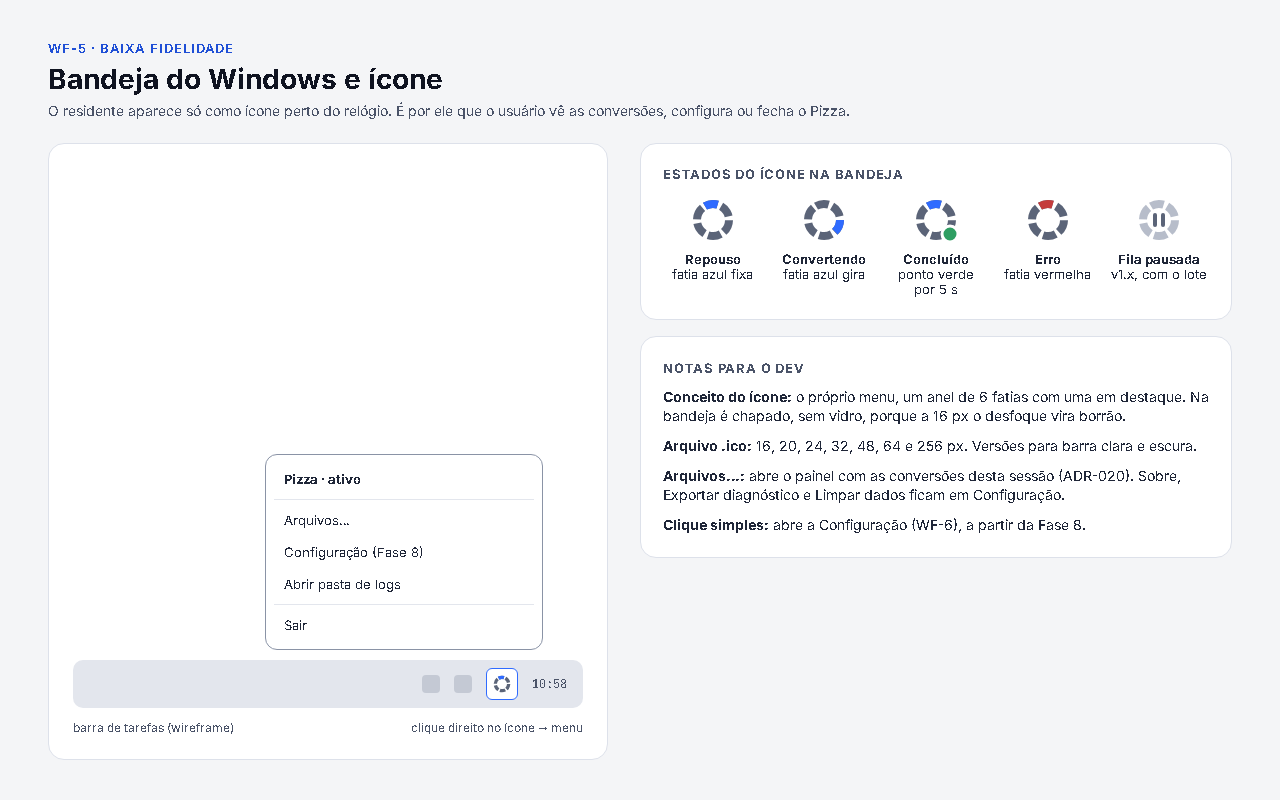
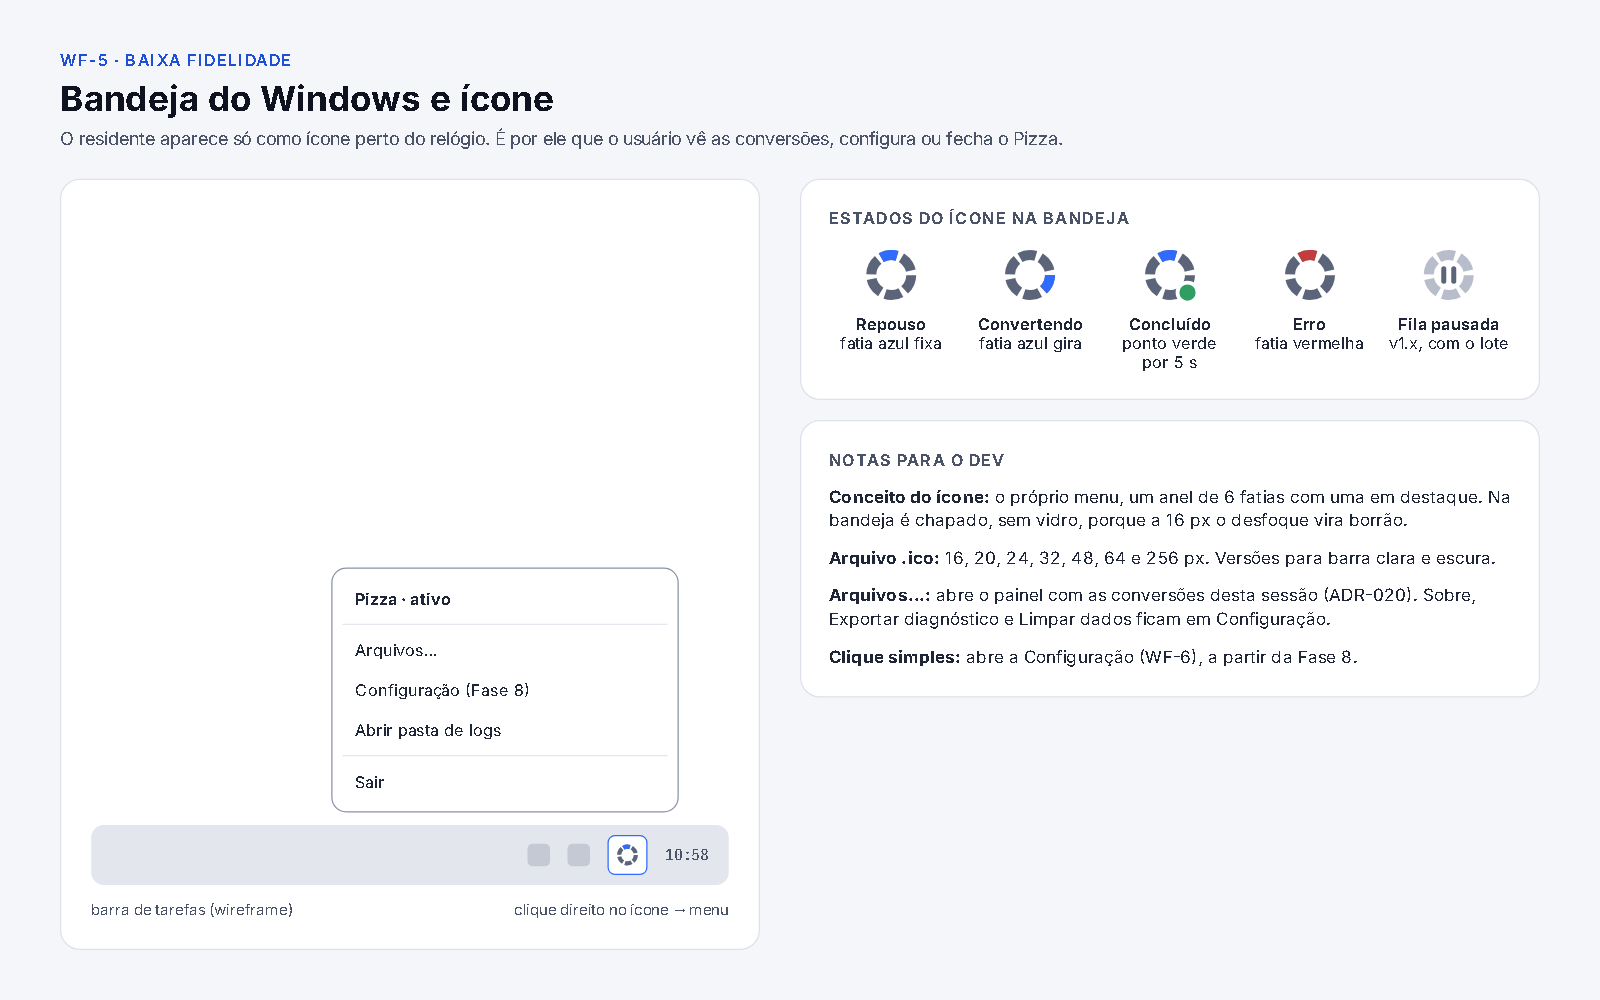
docs: Dossiê alinhado, decisões recentes e ADR-026 (vídeo) (#41)
* docs: Dossiê alinhado, decisões recentes e ADR-026 (vídeo)

- Pranchas atualizadas: capa (status da Fase 4), DES-1 (giro de aba
  240 ms), WF-1 (6 abas futuras, botão direito e 10 s), WF-2 (texto
  curvo), ENG-0 (etapas da Fase 4) e ENG-3 (testes e Overlay em
  partes); prancha nova DEC-1 com decisões e próximos passos.
- ADR-026: aba Vídeo separada de Áudio, com Media Foundation e FFmpeg
  (este após análise de licença e patentes); C# continua.
- SPECS §2.1: detalhes da faixa de níveis e da bolha de vidro (4b) e a
  barra para seis abas (4d); roteiro com o vídeo.

* docs: ADR-026 único, com o estudo da barra compacta do #40

Traz do PR #40 (preparado com o Codex) o estudo em SVG da barra compacta, a regra de motor definida antes do código e o cuidado com direitos de distribuição. O texto das fatias segue a curva completa (B) aprovada.

* docs: ADR-026 sem afirmar que o Media Foundation dispensa análise de licença

* docs(dossie): etapa 1, padrão único e barra de abas

Padrão decidido pelo mantenedor: documentação em tema claro, 1600 x
1000, fundo #f4f6fa; telas do Pizza em claro e escuro lado a lado.
- Wireframes ampliados 1,25x; pranchas mais altas reduzidas na
  proporção para caber em 1000 px; MKT-2 centralizada.
- Ref-Texto-Fatias refeita com a versão B nos dois temas.
- Prancha nova Ref-Barra-Abas: A (texto curto, 38 px) e B (ícone e
  nome, 44 px), nos dois temas, com o conflito com os 44 px de
  acessibilidade.
[…]

diff --git a/docs/SPECS.md b/docs/SPECS.md
@@ -102,7 +102,7 @@ Decisões das rodadas de alinhamento de 08/11/2026. **Onde houver conflito, esta
 | FR-23 | "Manter metadados" funciona em JPG, PNG e WEBP. Em PDF e ICO, a caixa aparece desativada, com o aviso de que o formato não guarda metadados | — |
 | Imagem → PDF | Gerador próprio, sem PDFsharp (AGPL desde a 6.5.0). Folha A4 acompanhando a orientação da imagem, margem de 10 mm. A biblioteca das demais operações de PDF será decidida na Fase 6 | 022 |
 | Aba Imagem e FR-04 | AVIF entra depois do WEBP. Com mais de 6 formatos, as fatias se dividem em voltas; a roda percorre as voltas da aba antes da próxima aba, e pontos no miolo mostram a volta. Aba sem conversão mostra "Em breve" com o que vem nela | 024 |
-| Áudio/Vídeo (v1.x) | MP3, WAV, FLAC, M4A/AAC e OGG/Opus; MP4, WebM e AV1; GIF para vídeo; extrair áudio de vídeo; MOV e MKV para MP4; opções de resolução, taxa de quadros e meta de tamanho. HEVC só depois de análise de patentes e licença. Em estudo para fotógrafos e videomakers: fotos RAW (CR2, NEF, ARW, DNG), que exigem biblioteca nova, e ProRes para MP4 | — |
+| Áudio/Vídeo (v1.x) | Duas abas, Áudio e Vídeo; "extrair áudio" fica em Vídeo. Motores: Media Foundation do Windows e FFmpeg (este após análise de licença e patentes), só no Worker isolado (ADR-026). Áudio: MP3, WAV, FLAC, M4A/AAC e OGG/Opus. Vídeo: MP4, WebM e AV1; GIF para vídeo; extrair áudio de vídeo; MOV e MKV para MP4; opções de resolução, taxa de quadros e meta de tamanho. HEVC só depois de análise de patentes e licença. Em estudo para fotógrafos e videomakers: fotos RAW (CR2, NEF, ARW, DNG), que exigem biblioteca nova, e ProRes para MP4 | — |
 | Web (v1.x, aba nova) | Minificar HTML, CSS e JS; TTF e OTF para WOFF2; gerar .gz e .br de um arquivo. Ativar compressão em servidor fica de fora, por não ser conversão de arquivo; SVG a partir de imagem fica em estudo | — |
 | Desenho e vidro | GDI+ do Windows, sem Direct2D nem Vortice. Vidro desfocado pelo próprio Pizza a partir de uma cópia do trecho da tela atrás do menu, só em memória e zerada ao fechar; branco sólido 92% com a transparência do Windows desligada | 023 |
 | TST-03 | Sem SharpFuzz: ele só observa código C#, e quem interpreta os arquivos é o libvips nativo. Teste próprio corrompe arquivos válidos de cada formato de forma repetível e os passa pelo Worker real: cerca de 100 casos em cada PR e 5.000 por semana. Queda do Worker, travamento, temporário sobrando ou erro fora de `CORRUPTED`, `UNSUPPORTED` e `LIMIT_EXCEEDED` reprovam | — |
@@ -123,8 +123,8 @@ Decisões das rodadas de alinhamento de 08/11/2026. **Onde houver conflito, esta
 | SEC-10, 11, 12, 14, 16, TST-06, TST-27 | Removidos: o canal com o Worker usa pipes sem nome, entregues só a ele. SEC-13 e SEC-15 continuam valendo | 021 |
 | SEC-57 | Confirmado: o MSI só avisa que há versão nova | — |
 | Escolha por clique (detalhes) | O botão direito numa fatia também escolhe: abre o painel de opções e, em formato sem opções, converte direto. No disco, fora das fatias, nenhum botão faz nada. Depois de 10 s sem interação (mouse, roda ou teclado), a escolha fecha; cada interação reinicia a contagem | 025 |
-| FR-04 e FR-20 (Fase 4b) | Acima do disco, uma faixa mostra os níveis da fatia em hover, em todas as abas (exemplo: "Nível de compressão: Impressão, Escritório, Tela"). Soltar ou clicar usa o nível padrão, e o painel completo abre no botão direito. O desenho final, mesclando faixa e painel, sai num ADR da Fase 4b | — |
-| Barra de abas (Fase 4d) | Fica mais fina: entre 55% e 70% da altura atual | — |
+| FR-04 e FR-20 (Fase 4b) | Acima do disco, uma faixa mostra os níveis da fatia em hover, em todas as abas (exemplo: "Nível de compressão: Impressão, Escritório, Tela"). A faixa mostra só a opção principal de cada formato (Qualidade em JPG, WEBP e AVIF; Resolução em PNG e PDF; Tamanho em ICO) e some em formato sem opções. Soltar ou clicar no nível escolhe; com o cursor sobre a faixa, a roda troca o nível, e no resto do menu continua trocando a aba. Soltar ou clicar na fatia usa o nível padrão, e o painel completo abre no botão direito. Uma bolha de vidro (liquid glass) desliza entre abas, fatias e níveis. O desenho final sai numa prancha do Dossiê e num ADR da Fase 4b | — |
+| Barra de abas (Fase 4d) | Fica mais fina, entre 55% e 70% da altura atual, e cabe seis abas (com Vídeo e Web). Escolhida em 11/11/2026 a versão B: ícone com o nome curto embaixo, 44 px de altura (81% da atual, o mínimo de acessibilidade), alvos de cerca de 65 × 44 px e nome completo para o leitor de tela (prancha Ref-Barra-Abas) | 026 |
 | Temas do vidro (Fase 8) | Na tela de Configuração, paletas opcionais em degradê pastel, no estilo do fundo das pranchas de referência do Dossiê | — |
 | Sobre (Fase 8) | A seção Sobre da Configuração mostra a frase do projeto: "Afinal, tudo acaba em pizza." | — |
 | NFR-01 | A meta de 20 MB vale para a **memória privada** do residente, a coluna Memória do Gerenciador de Tarefas. O conjunto de trabalho total também conta DLLs do Windows compartilhadas com o Explorer (shell32, windows.storage, combase), exigidas pelo arrastar e soltar em qualquer linguagem. Medição de 10/11/2026, em repouso: 7,8 MB privados e 24 MB de conjunto de trabalho. A Fase 5 mede também com o menu aberto | — |

diff --git a/docs/adr/026-aba-video-e-motores.md b/docs/adr/026-aba-video-e-motores.md
@@ -1,0 +1,26 @@
+# ADR-026 — Aba Vídeo separada e dois motores de vídeo
+
+- **Status:** Aceita pelo mantenedor em 11/11/2026. Detalha a linha "Áudio/Vídeo (v1.x)" da SPECS §2.1. Consolida também o PR #40, preparado com o Codex.
+- **Data:** 2026-11-11
+
+## Contexto
+
+A SPECS previa uma aba única de Áudio/Vídeo para a v1.x. O mantenedor pediu uma aba própria de vídeo, com as principais conversões, e quis saber se o C# continua servindo para algo pesado como vídeo.
+
+## Decisão
+
+- **Duas abas:** Áudio e Vídeo ficam separadas. O menu já abre na aba do tipo do arquivo arrastado, então quem arrasta um vídeo cai direto nos formatos de vídeo. Separadas, cada aba cabe numa volta de seis fatias, ou quase; juntas, passariam de onze formatos. "Extrair áudio" fica na aba Vídeo, porque é o vídeo que se arrasta.
+- **Dois motores:** o Media Foundation do Windows cobre os casos comuns (MP4, H.264, extrair áudio, reduzir resolução), com aceleração por placa de vídeo e sem aumentar o instalador. O FFmpeg empacotado cobre o que o Windows não traz (WebM, AV1, MKV). Antes de entrar, o FFmpeg passa pela análise de licença e de patentes que a SPECS já exige para o HEVC, e roda como os demais interpretadores: só dentro do Worker isolado, sem rede (SEC-20). A regra de qual motor atende cada formato, e o que fazer quando um codec não estiver disponível, é definida antes do código. Ter o codec instalado no Windows não resolve, por si só, os direitos de distribuição do Pizza: isso entra na mesma análise.
+- **Linguagem:** o C# continua. O trabalho pesado é decodificar e codificar, e isso acontece dentro dos codecs nativos; a linguagem do Pizza só orquestra.
+- **Barra de abas:** com Vídeo e Web, serão seis abas. A barra mais fina da Fase 4d, pedida com 55–70% da altura atual, precisa caber nelas. A proposta é ícone com o nome curto embaixo (Imagem, PDF, Docs, Áudio, Vídeo, Web), com o nome completo para o leitor de tela, foco visível e alvos de pelo menos 44 px ([estudo](../propostas/barra-compacta.svg)). O mantenedor escolheu essa versão (B) em 11/11/2026, na prancha Ref-Barra-Abas: 44 px de altura, 81% da atual, porque os 70% pedidos deixariam os alvos abaixo do mínimo de 44 px. Nenhuma aba futura é ativada antes da sua fase.
+
+## Consequências
+
+O instalador cresce com o FFmpeg (estimativa de 80 a 100 MB); o Media Foundation não aumenta nada. Há mais um interpretador de arquivo não confiável a manter atualizado e coberto pelo teste de arquivos corrompidos (TST-03).
+
+## Alternativas descartadas
+
+- Uma aba só de Áudio e Vídeo: abriria com formatos que não servem para o arquivo arrastado e precisaria de duas ou três voltas.
+- Só o FFmpeg: instalador maior e licença de H.264/HEVC a resolver até para o caso mais comum.
+- Só o Media Foundation: WebM, AV1 e MKV dependeriam do que estivesse instalado na máquina.
+- Reescrever em Rust para ganhar velocidade em vídeo: o tempo é gasto nos codecs nativos, iguais nas duas linguagens.

diff --git a/docs/dossie/README.md b/docs/dossie/README.md
@@ -11,6 +11,8 @@ Pranchas do planejamento do Pizza, feitas antes do código, em 08/11/2026 e 09/1
 - implantação;
 - wireframes.
 
+> **Padrão desde 11/11/2026:** pranchas de documentação em tema claro, 1600 × 1000, fundo único; telas do Pizza em claro e escuro lado a lado.
+>
 > **Revisão de 10/11/2026:** as pranchas foram atualizadas para bater com a SPECS v1.2. Se alguma ainda divergir, valem as [SPECS](../SPECS.md) (em especial a §2.1, com as emendas) e os [ADRs](../adr/).
 >
 > As principais mudanças desde o planejamento são estas:
@@ -47,9 +49,15 @@ Pranchas do planejamento do Pizza, feitas antes do código, em 08/11/2026 e 09/1
 
 ### Referência · texto das fatias
 
-Decidido em 10/11/2026: **B · Curva completa**. A versão A, sem girar, foi descartada porque a descrição longa não cabia nas fatias laterais sem quebrar a linha.
+Decidido em 10/11/2026: **B · Curva completa**, mostrada nos temas claro e escuro. A versão A, sem girar, foi descartada porque a descrição longa não cabia nas fatias laterais sem quebrar a linha.
 
 ![Texto das fatias](ref-texto-fatias.png)
+
+### Referência · barra de abas para seis abas
+
+Decidido em 11/11/2026: **B · ícone e nome, 44 px**, para a Fase 4d. A versão A (texto curto, 38 px) foi descartada porque deixa os alvos abaixo dos 44 px de acessibilidade (NFR-06).
+
+![Barra de abas](ref-barra-abas.png)
 
 ## Arquitetura
 
@@ -94,6 +102,12 @@ Decidido em 10/11/2026: **B · Curva completa**. A versão A, sem girar, foi des
 ### ENG-4 · Sequência de uma conversão
 
 ![Sequência](eng-4-sequencia.png)
+
+## Decisões recentes
+
+### DEC-1 · O que mudou no caminho, e o que vem depois
+
+![Decisões recentes e próximos passos](dec-1-decisoes.png)
 
 ## Wireframes
 

diff --git a/docs/ideias-descartadas/README.md b/docs/ideias-descartadas/README.md
@@ -22,6 +22,7 @@ Para reabrir uma ideia, crie um ADR novo que substitui o anterior (veja [`docs/a
 | Soltar fora do disco cancela | Soltar em qualquer lugar mantém o menu para escolher com um clique, sem precisar mirar | [ADR-025](../adr/025-escolha-por-clique-apos-o-gesto.md) |
 | Fechar a escolha em prazo fixo, ou só depois de 30 s | Fecharia enquanto a pessoa navega no touchpad, ou ocuparia demais uma tela pequena: o prazo é de 10 s sem interação | [ADR-025](../adr/025-escolha-por-clique-apos-o-gesto.md) |
 | Texto das fatias na horizontal com arco leve (versão A) | A descrição longa não cabia nas fatias laterais sem quebrar a linha; ficou a curva completa (B) | [Dossiê](../dossie/README.md#referência--texto-das-fatias) |
+| Barra de abas só com texto curto, 38 px (versão A) | Os alvos ficariam abaixo dos 44 px de acessibilidade; ficou a versão B, com ícone e nome, em 44 px | [Dossiê](../dossie/README.md#referência--barra-de-abas-para-seis-abas) |
 | Marca ✓ na fatia escolhida | A fatia só fica em destaque, no mesmo vidro do hover; o ✓ aparece apenas no aviso de concluído | Pedido do mantenedor em 10/11/2026 |
 | Vidro fosco e escuro na fatia escolhida | Ficou escuro demais; voltou ao vidro translúcido do hover | Pedido do mantenedor em 10/11/2026 |
 

diff --git a/docs/PIZZA-PROJETO.md b/docs/PIZZA-PROJETO.md
@@ -742,6 +742,7 @@ Cada decisão também tem um arquivo próprio em [`docs/adr/`](adr/).
 | 024 | AVIF depois do WEBP e voltas de fatias quando há mais de 6 | Nenhum formato fica de fora, sem tecla extra no arraste | Fatia "Mais", Shift + roda, AVIF no fim |
 | 023 | GDI+ e desfoque próprio do vidro, substituindo Direct2D e Acrylic do ADR-003 | Acrylic e composição do Windows não funcionam com o disco inativo; sem dependência nova | Vortice, Acrylic, composição, API não documentada |
 | 025 | Soltar em qualquer posição e escolher por clique; soltar na fatia continua como atalho | Não exige sustentar o botão nem mirar no centro | Exigir soltura no centro; selecionar apenas por drop |
+| 026 | Aba Vídeo separada de Áudio, com Media Foundation e FFmpeg | O menu abre na aba do arquivo; cada aba cabe numa volta; o trabalho pesado é dos codecs nativos | Aba única de Áudio e Vídeo, só FFmpeg, só Media Foundation, Rust |
 
 ---
 

diff --git a/docs/ROADMAP.md b/docs/ROADMAP.md
@@ -12,7 +12,8 @@ Esta entrega fecha uma prévia do gesto e da conversão de imagens. Não equival
 | Worker isolado e proteção do original | Implementados; testes de integração |
 | Vidro, temas e movimento reduzido | Implementados no disco; validação manual ampla ainda necessária |
 | PDF → outros formatos e operações em PDF | Planejados |
-| Documento, áudio, vídeo e web | Planejados |
+| Documento, áudio e web | Planejados |
+| Vídeo, em aba própria (Media Foundation e FFmpeg) | Planejado para v1.x ([ADR-026](adr/026-aba-video-e-motores.md)); [estudo da barra compacta](propostas/barra-compacta.svg) para a Fase 4d |
 | Lotes | Planejados para v1.x |
 | Configurações completas e políticas de TI | Planejadas |
 | Instaladores assinados, atualização verificada, SBOM e proveniência de release | Pendentes antes da distribuição estável |
